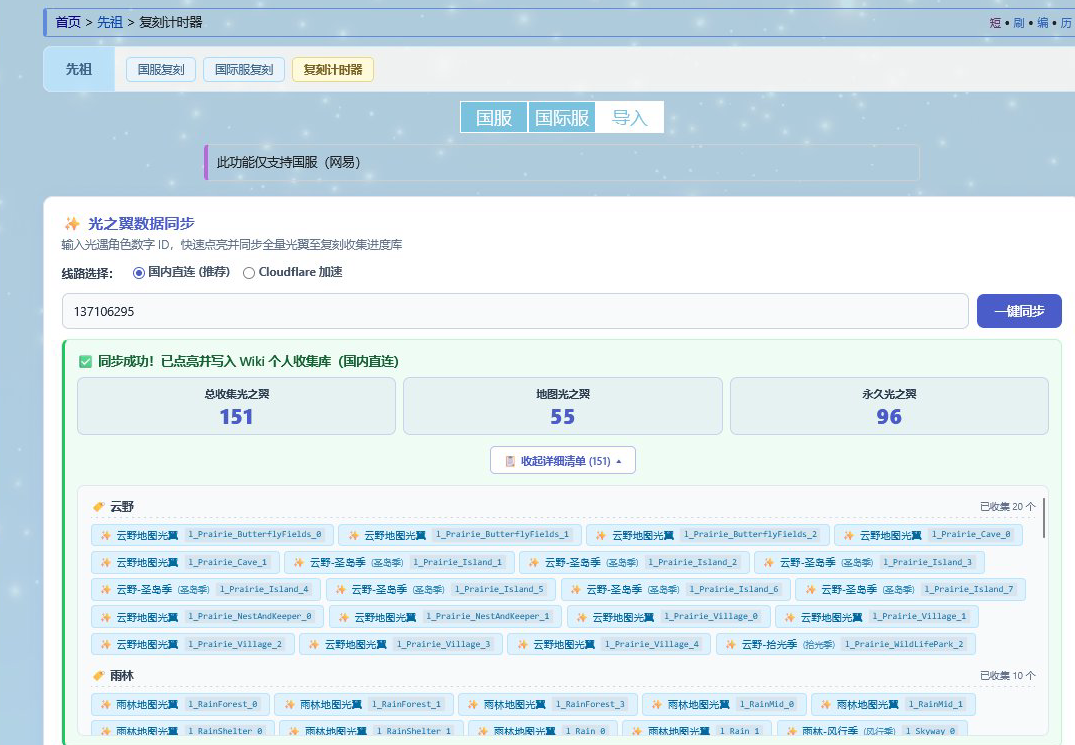
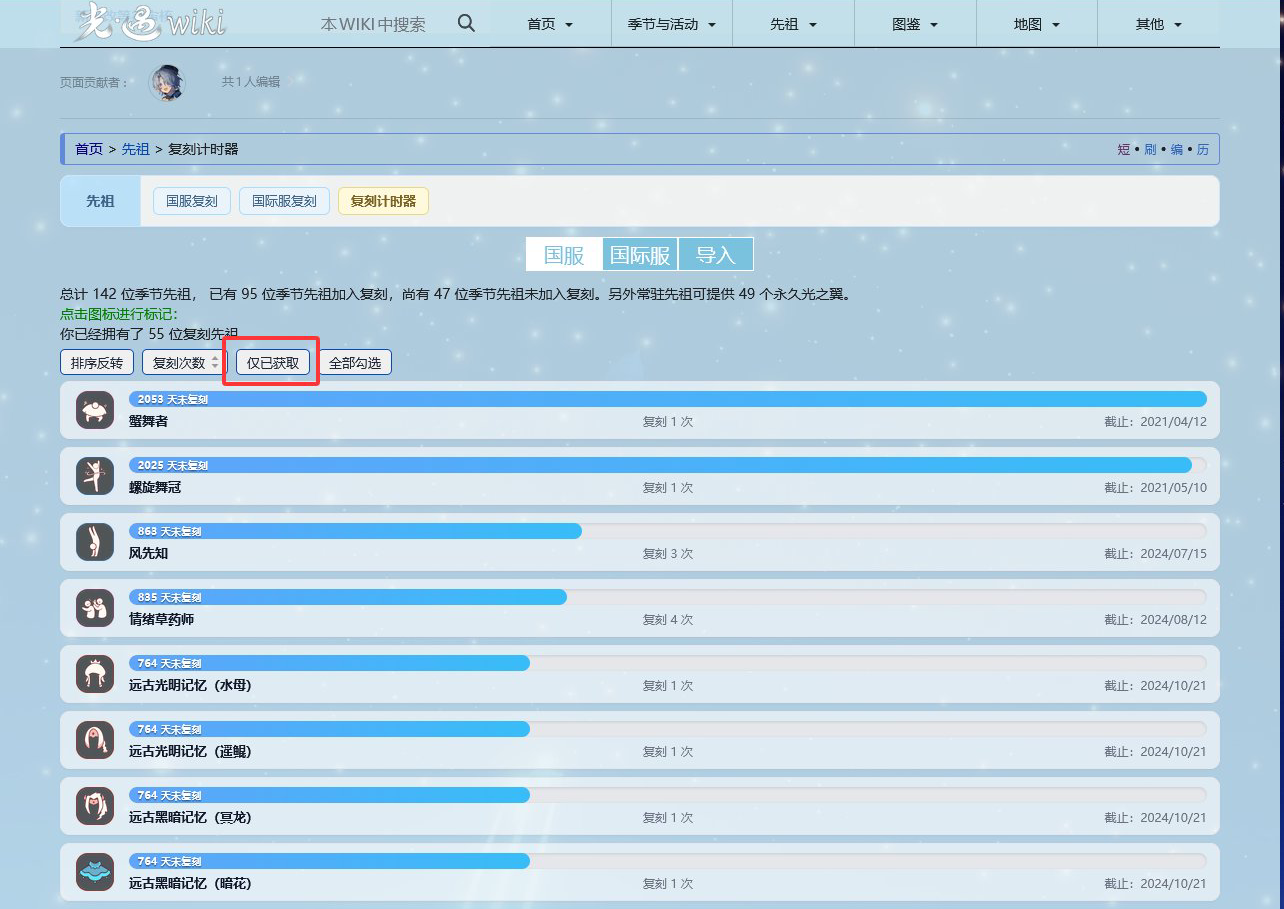
docs: 替换重复的词条截图为先祖排期大盘与【仅已获取】联动实况
- 移除与导入组件面板重复的旧图，替换为附件 2：展示先祖排期大盘、倒计时柱状图与工具条【仅已获取】筛选实况
- 同步精修 README 文案描述

diff --git a/README.md b/README.md
@@ -18,11 +18,11 @@
   <img src="doc/images/widget-live-preview.png" width="900" alt="线上Widget运行实况">
 </p>
 
-### 2. 复刻计时器宿主词条全貌 (curid=10607)
-组件挂载于「复刻计时器」词条的第三个标签页 **「导入」** 中，左侧无缝联动「国服」与「国际服」先祖排期大盘：
+### 2. 复刻计时器宿主大盘全貌与联动效果 (curid=10607)
+一键导入后无缝点亮「国服」与「国际服」先祖排期大盘，支持通过上方工具条自由筛选「仅已获取 / 隐藏已获取」，直观查看先祖回归倒计时与收集进度：
 
 <p align="center">
-  <img src="doc/images/wiki-page-overview.png" width="900" alt="复刻计时器页面全貌">
+  <img src="doc/images/wiki-page-overview.png" width="900" alt="复刻计时器先祖大盘与联动实况">
 </p>
 
 ---
